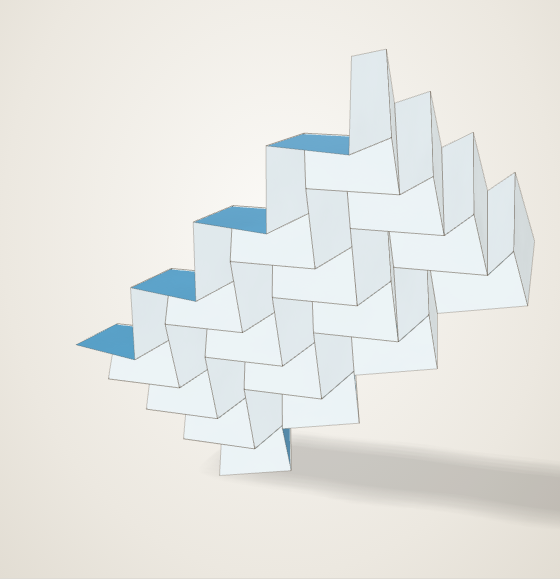
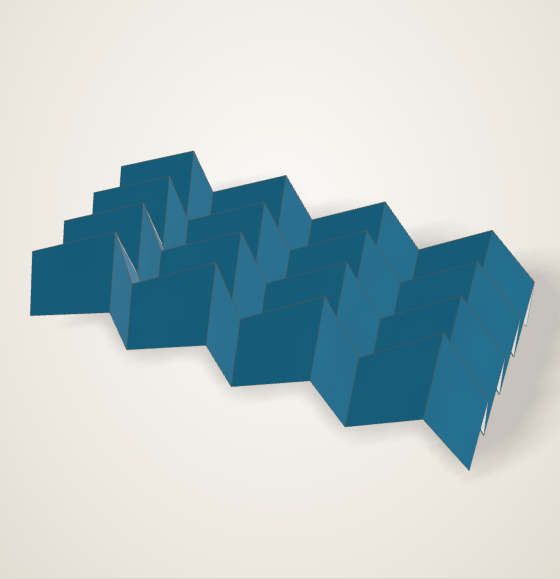
Lay the opened tessellations down on their ridges
Opened as rigid origami, the Miura-ori and the swell stood on one corner. A tilt
now lays each sheet down, so it shows its corrugation from above.

diff --git a/examples/miura_ori.py b/examples/miura_ori.py
@@ -46,4 +46,7 @@ def fold() -> Paper:
     # Rigid origami: the columns open, and the zigzags follow.
     columns = [Line.through((width * c, 0), (width * c, 1)) for c in range(1, COLUMNS)]
     paper.flex(dict.fromkeys(columns, OPEN))
+    # Opened, the sheet stands on a corner; lay it down on its ridges. The tilt's line
+    # runs along the opened sheet's long side, and 76° is how far the sheet leans.
+    paper.tilt(Line.through(("3/8", "1/8"), ("35/8", "9/8")), flap=("3/8", 1), angle=76)
     return paper

diff --git a/examples/swell.py b/examples/swell.py
@@ -54,4 +54,6 @@ def fold() -> Paper:
     paper.collapse(valleys=valleys, mountains=mountains)
     columns = [Line.through((x, 0), (x, 1)) for x in edges[1:-1]]
     paper.flex(dict.fromkeys(columns, OPEN))
+    # Opened, the sheet leans 52° from the table; lay it down on its ridges.
+    paper.tilt(Line.through(("3/5", "7/10"), ("-7/5", "17/10")), flap=(1, 1), angle=-52)
     return paper

diff --git a/docs/gallery.md b/docs/gallery.md
@@ -42,10 +42,11 @@ Models that end out of the plane: shaped about their hinges, or opened as rigid 
 
 -   ![The Miura-ori example](images/gallery-miura-ori.png)
 
-    **[Miura-ori](gallery/miura-ori.html)** · 3 steps
+    **[Miura-ori](gallery/miura-ori.html)** · 4 steps
 
     A grid of parallelograms: zigzags alternate mountain and valley, and each column alternates along its length.
     Its 112 creases collapse into one flat stack, then open as rigid origami, the zigzags following the columns.
+    Opened, the sheet lies down on its ridges.
 
     [Open in 3D](gallery/miura-ori.html) · [Script](https://github.com/maxencefaldor/origamy/blob/main/examples/miura_ori.py)
 
@@ -169,7 +170,7 @@ Models designed with origamy, each a short composition of the same exact actions
 
 -   ![The swell example](images/gallery-swell.png)
 
-    **[Swell](gallery/swell.html)** · 3 steps
+    **[Swell](gallery/swell.html)** · 4 steps
 
     A Miura-ori whose columns each grow a quarter wider than the last, their zigzags growing with them.
     Every zigzag keeps one slope, so every vertex keeps the Miura-ori's angles and the paper still opens rigidly, swelling as it goes.
